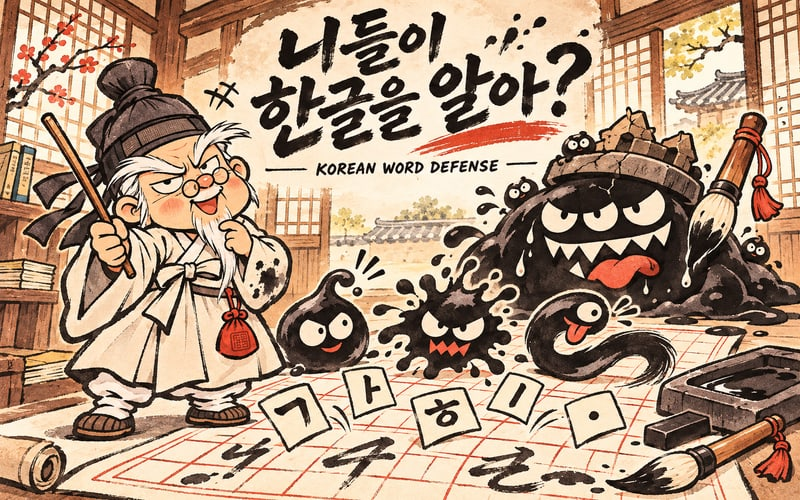
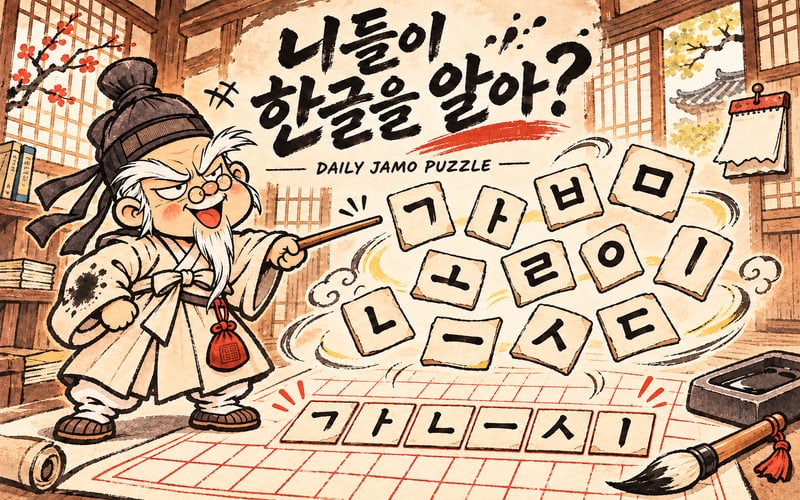
니들이 한글을 알아?: 키아트 오늘의 자모로 교체 (먹물 괴물 · KOREAN WORD DEFENSE 빼고 DAILY JAMO PUZZLE), 링크 미리보기 v10

diff --git a/web/src/lib/og/shots.ts b/web/src/lib/og/shots.ts
@@ -19,5 +19,5 @@ export const SHOT_KEYS = new Set([
   "games/hangul",
   "games/rspeed",
 ]);
-export const SHOT_VERSION = 9;
+export const SHOT_VERSION = 10;
 export const shotFile = (key: string) => `${key.replace(/\//g, "__")}.jpg`;
